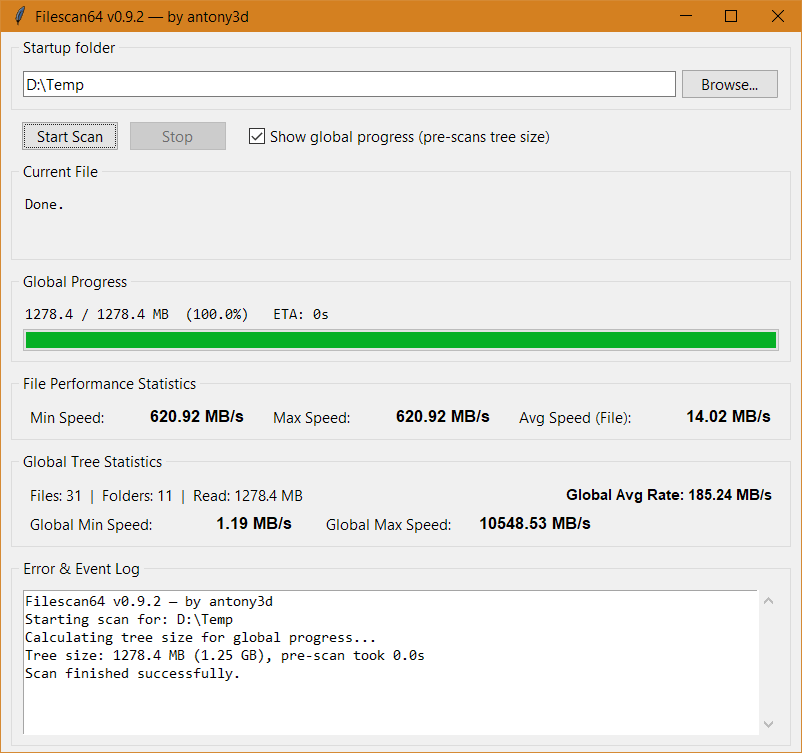
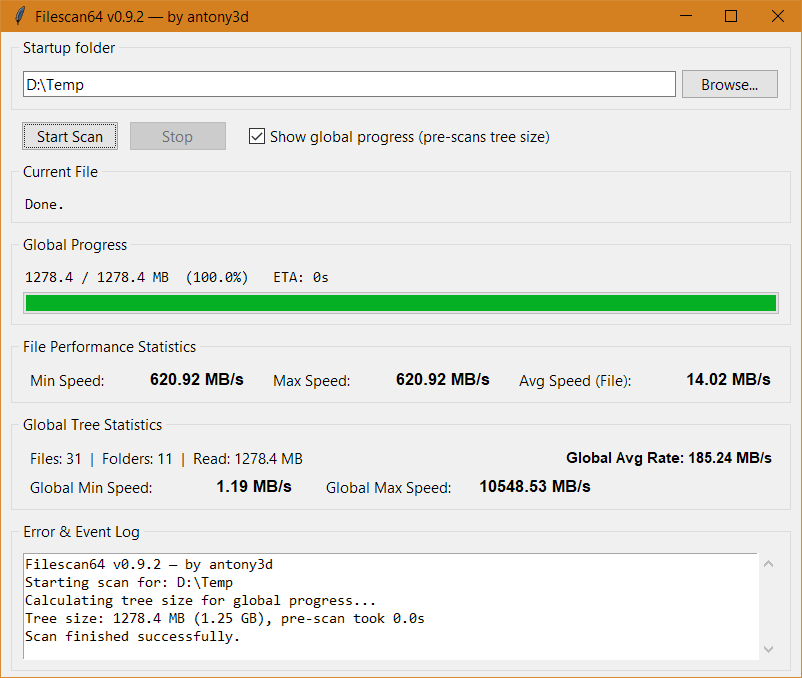
FIX: restore buttons via _scan_wrapper try/finally FIX: check stop flag inside pre-scan file loop ADD: guard against double scan start ADD: skip pseudo-filesystems and special files from scan

diff --git a/filescan64.py b/filescan64.py
@@ -1,4 +1,6 @@
+#!/usr/bin/env python3
 import os
+import stat
 import time
 import tkinter as tk
 from tkinter import filedialog, scrolledtext, ttk
@@ -7,7 +9,7 @@ import threading
 # ============================ МЕТА ============================
 
 NAME    = "Filescan64"
-VERSION = "0.9.2"
+VERSION = "0.9.3"
 AUTHOR  = "antony3d"
 
 # ============================ ОКНО ============================
@@ -35,6 +37,45 @@ def human_time(seconds):
     if m > 0:
         return f"{m}m {s}s"
     return f"{s}s"
+
+# ============================ SKIP-ФИЛЬТРЫ ============================
+# Псевдо-ФС (Linux / macOS): чтение оттуда бессмысленно или опасно
+# (/proc/kcore — гигантский «псевдофайл», /proc/kmsg — блокирует чтение).
+# Обрезаем их из os.walk, чтобы даже не спускаться внутрь.
+# Проверка только по абсолютному префиксу: папка ~/dev или ~/proc
+# обычного пользователя под фильтр НЕ попадает.
+
+SKIP_FS_PREFIXES = ("/proc", "/sys", "/dev")
+
+def _is_under_skip_prefix(path):
+    """True, если путь внутри псевдо-ФС. На Windows всегда False."""
+    if os.name != "posix":
+        return False
+    try:
+        abs_p = os.path.abspath(path)
+    except Exception:
+        return False
+    for prefix in SKIP_FS_PREFIXES:
+        try:
+            if os.path.commonpath([abs_p, prefix]) == prefix:
+                return True
+        except Exception:
+            continue
+    return False
+
+def stat_regular_size(path):
+    """Размер файла, если это обычный файл. Иначе None.
+
+    Один os.stat вместо getsize + open: заодно отсекает FIFO,
+    сокеты, device-ноды и битые симлинки — чтение таких файлов
+    вешало бы скан навсегда."""
+    try:
+        st = os.stat(path, follow_symlinks=True)
+    except OSError:
+        return None
+    if not stat.S_ISREG(st.st_mode):
+        return None
+    return st.st_size
 
 class FileScanApp:
     def __init__(self, root):
@@ -181,6 +222,9 @@ class FileScanApp:
             self.path_entry.insert(0, os.path.normpath(folder))
 
     def start_scan(self):
+        if self.scanning:
+            self.log_message("Scan already running.")
+            return
         target = self.path_entry.get().strip()
         if not target or not os.path.exists(target):
             self.log_message("ERROR: Invalid target path.")
@@ -193,10 +237,21 @@ class FileScanApp:
         self.btn_browse.config(state="disabled")
         self.chk_global.config(state="disabled")
         self.log_area.delete("1.0", tk.END)
-        self.log_message(f"{NAME} v{VERSION} — by {AUTHOR}")
         self.log_message(f"Starting scan for: {target}")
 
-        threading.Thread(target=self.scan_worker, args=(target,), daemon=True).start()
+        threading.Thread(target=self._scan_wrapper, args=(target,), daemon=True).start()
+
+    def _scan_wrapper(self, target_dir):
+        """Обёртка воркера: гарантирует восстановление кнопок.
+
+        scan_worker может упасть (TclError, OSError, ...). Без finally
+        кнопки остались бы disabled и приложение выглядело бы повешенным."""
+        try:
+            self.scan_worker(target_dir)
+        except Exception as e:
+            self.log_message(f"FATAL worker error: {str(e)}")
+        finally:
+            self._finish_scan(aborted=self.stop_requested)
 
     def stop_scan(self):
         if self.scanning:
@@ -300,18 +355,31 @@ class FileScanApp:
         for root_path, dirs, files in os.walk(target_dir):
             if self.stop_requested:
                 break
+            # Псевдо-ФС режем молча (лог — в основном цикле, чтобы не двоить)
+            dirs[:] = [d for d in dirs
+                       if not _is_under_skip_prefix(os.path.join(root_path, d))]
             for f in files:
+                # П.4: раньше флаг проверялся только во внешнем цикле —
+                # каталог-миллионник нельзя было остановить
+                if self.stop_requested:
+                    break
                 fp = os.path.join(root_path, f)
-                try:
-                    total_size += os.path.getsize(fp)
-                    file_count += 1
-                except Exception:
-                    pass
+                size = stat_regular_size(fp)
+                if size is None:
+                    continue
+                total_size += size
+                file_count += 1
         return total_size, file_count
 
     # ============================ Основной цикл сканирования ============================
 
     def scan_worker(self, target_dir):
+        # Явная цель внутри псевдо-ФС — не сканируем, выходим через
+        # _scan_wrapper/finally (кнопки восстановятся там)
+        if _is_under_skip_prefix(target_dir):
+            self.log_message(f"WARNING: pseudo-filesystem target skipped: {target_dir}")
+            return
+
         total_bytes = 0
         file_count = 0
         folder_count = 0
@@ -329,7 +397,6 @@ class FileScanApp:
                 f"({tree_total_size / 1024 / 1024 / 1024:.2f} GB), pre-scan took {pre_time:.1f}s"
             )
             if self.stop_requested:
-                self._finish_scan(aborted=True)
                 return
         else:
             self._show_tree_progress(False)
@@ -342,6 +409,10 @@ class FileScanApp:
             if self.stop_requested:
                 break
 
+            skipped = self._prune_dirs(root_path, dirs)
+            for s in skipped:
+                self.log_message(f"Skipped pseudo-fs dir: {s}")
+
             folder_count += len(dirs)
 
             for file in files:
@@ -349,15 +420,16 @@ class FileScanApp:
                     break
 
                 file_path = os.path.join(root_path, file)
+                # Спецфайлы (FIFO, сокеты, device-ноды, битые симлинки)
+                # пропускаем молча: open/read на них виснет навсегда
+                file_size = stat_regular_size(file_path)
+                if file_size is None:
+                    continue
                 file_count += 1
 
                 display_path = file_path if len(file_path) < 75 else "..." + file_path[-72:]
                 self.lbl_current_file.config(text=display_path)
 
-                try:
-                    file_size = os.path.getsize(file_path)
-                except Exception:
-                    file_size = 0
                 is_large = file_size > LARGE_FILE_THRESHOLD
                 show_progress_bar = file_size > PROGRESS_FILE_MIN
 
@@ -428,7 +500,19 @@ class FileScanApp:
         # Скрываем прогрессбар файла после завершения
         self._show_file_progress(False)
 
-        self._finish_scan(aborted=self.stop_requested)
+    def _prune_dirs(self, root_path, dirs):
+        """Выкидывает псевдо-ФС из обхода (in-place для os.walk).
+        Возвращает список пропущенных путей для лога."""
+        kept = []
+        skipped = []
+        for d in dirs:
+            full = os.path.join(root_path, d)
+            if _is_under_skip_prefix(full):
+                skipped.append(full)
+            else:
+                kept.append(d)
+        dirs[:] = kept
+        return skipped
 
     def _finish_scan(self, aborted):
         self.scanning = False

diff --git a/README_ru.md b/README_ru.md
@@ -4,13 +4,9 @@
 
 Современная реплика классического тестера скорости чтения диска на Python/Tkinter. Последовательно читает все файлы в дереве каталогов и показывает скорость чтения по файлу и общую.
 
-## Скриншоты
+### Скриншоты
 
-1995:
-![FileScan32 1.06](img/filescan32.png)
-2026:
 ![FileScan64](img/filescan64.png)
-
 
 
 ### Возможности
@@ -47,6 +43,7 @@ Built date: Wed Oct 4 17:13:46 1995
 Copyright 1995 Jack Naoumov, Jack_N@MSN.com.
 All rights reserved. This product is freeware.
 ```
+![FileScan32 1.06](img/filescan32.png)
 
 ## Лицензия
 

diff --git a/README.md b/README.md
@@ -4,11 +4,8 @@
 
 Modern Python/Tkinter reimplementation of the classic disk read-speed tester. Sequentially reads every file in a folder tree and reports per-file and global throughput.
 
-## Screenshots
+### Screenshots
 
-1995:
-![FileScan32 1.06](img/filescan32.png)
-2026:
 ![FileScan64](img/filescan64.png)
 
 
@@ -47,6 +44,8 @@ Built date: Wed Oct 4 17:13:46 1995
 Copyright 1995 Jack Naoumov, Jack_N@MSN.com.
 All rights reserved. This product is freeware.
 ```
+
+![FileScan32 1.06](img/filescan32.png)
 
 ## License
 
